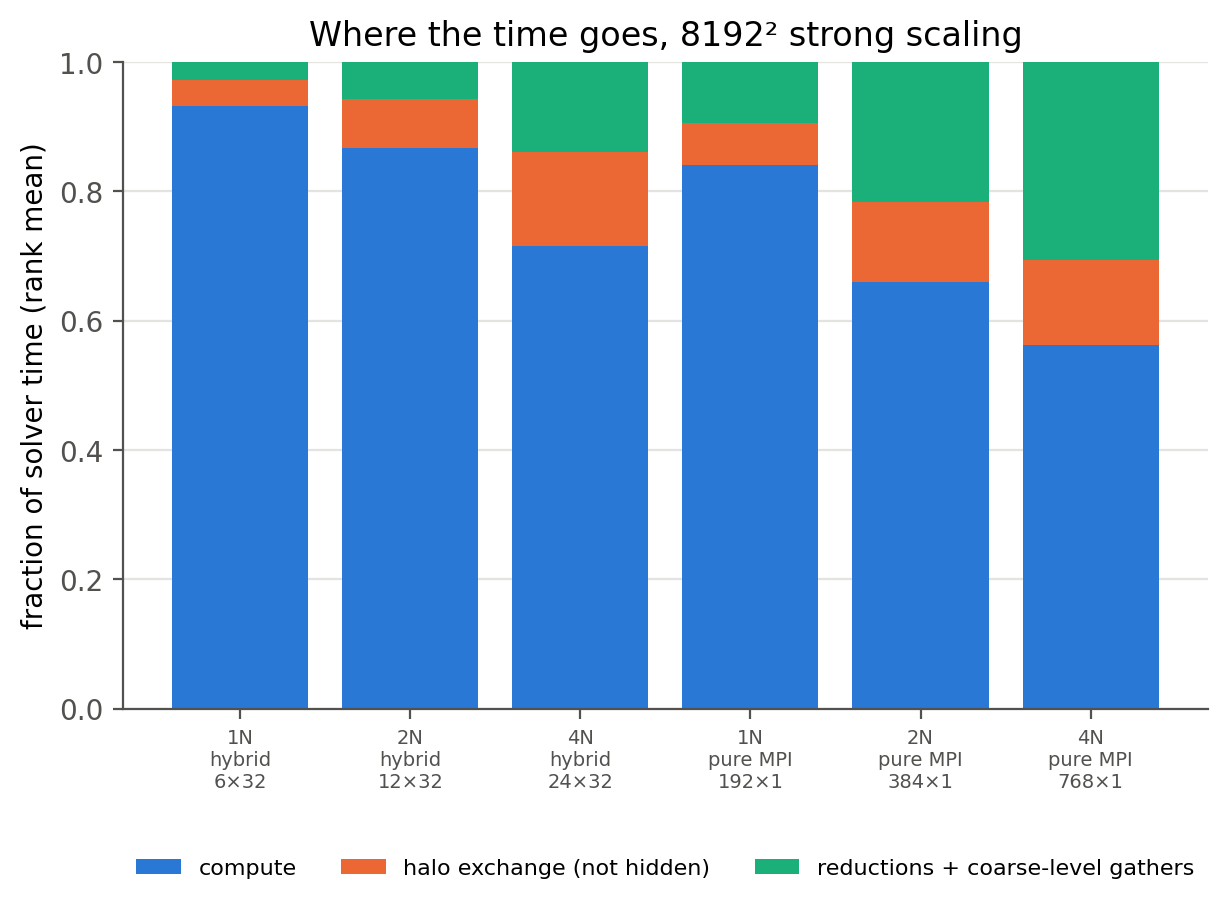
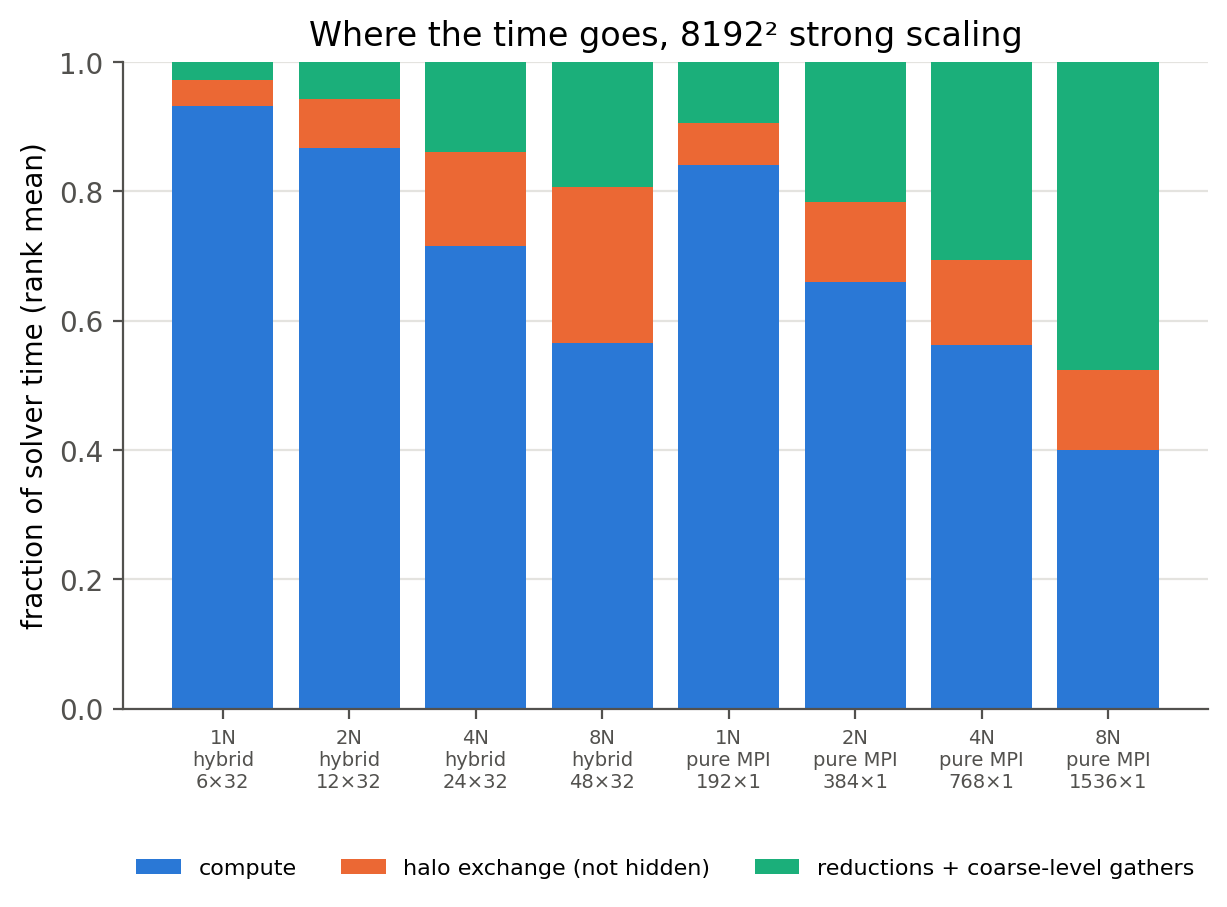
Update the new MPI results

diff --git a/docs/RESULTS.md b/docs/RESULTS.md
@@ -364,31 +364,32 @@ Coloured sweeps post non-blocking, corner-free halo messages for the previous co
 
 The gain needs blocks large enough for the interior update to cover the message time (512² cells per rank at 4096², 128² at 1024²). Kept: it never measurably costs time and results stay byte-identical.
 
-### Scaling on up to 4 nodes (T46)
+### Scaling on up to 8 nodes (T46)
 
-nibi CPU nodes: 2 × Intel Xeon 6972P, 192 cores and 6 NUMA domains (SNC3) per node, whole nodes (`--exclusive`), GCC 12.3, Open MPI 4.1.5. Cavity Re1000, QUICK/4, `gs_multicolour` + `mg`, fixed iterations (4096² × 100, 8192² × 50, weak 2048² per node × 200), `write_fields = False`, halo overlap on. Two layouts: **hybrid** (one rank per NUMA domain, 32 OpenMP threads each, `OMP_PLACES=cores OMP_PROC_BIND=close`) and **pure MPI** (one rank per core). Median of 3; repeats within a job agree to a few percent. Jobs 27660679–27660681 at c6c50f1 (`bench/slurm/mpi_scaling.sbatch`, figures from `postprocess/plot_mpi.py`). The 8-node job is still queued.
+nibi CPU nodes: 2 × Intel Xeon 6972P, 192 cores and 6 NUMA domains (SNC3) per node, whole nodes (`--exclusive`), GCC 12.3, Open MPI 4.1.5. Cavity Re1000, QUICK/4, `gs_multicolour` + `mg`, fixed iterations (4096² × 100, 8192² × 50, weak 2048² per node × 200), `write_fields = False`, halo overlap on. Two layouts: **hybrid** (one rank per NUMA domain, 32 OpenMP threads each, `OMP_PLACES=cores OMP_PROC_BIND=close`) and **pure MPI** (one rank per core). Median of 3; repeats within a job agree to a few percent. Jobs 27660679–27660682 at c6c50f1 (`bench/slurm/mpi_scaling.sbatch`, figures from `postprocess/plot_mpi.py`).
 
 **Strong scaling** (solver seconds):
 
-| grid | layout | 1 node | 2 nodes | 4 nodes | speedup at 4 |
+| grid | layout | 1 node | 2 nodes | 4 nodes | 8 nodes | speedup at 4 / 8 |
+|---|---|---|---|---|---|---|
+| 4096² | hybrid (6 × 32) | 5.82 | 3.05 | 1.29 | 1.05 | **4.5× / 5.6×** |
+| 4096² | pure MPI (192 × 1) | 6.31 | 3.18 | 1.53 | 1.80 | 4.1× / 3.5× |
+| 8192² | hybrid | 18.35 | 8.62 | 3.43 | 1.99 | **5.3× / 9.2×** |
+| 8192² | pure MPI | 18.43 | 9.59 | 3.66 | 2.43 | 5.0× / 7.6× |
+
+**Weak scaling** (2048² cells per node: 2048², 4096 × 2048, 4096², 8192 × 4096):
+
+| layout | 1 node | 2 nodes | 4 nodes | 8 nodes | efficiency at 2 / 4 / 8 |
 |---|---|---|---|---|---|
-| 4096² | hybrid (6 × 32) | 5.82 | 3.05 | 1.29 | **4.5×** |
-| 4096² | pure MPI (192 × 1) | 6.31 | 3.18 | 1.53 | 4.1× |
-| 8192² | hybrid | 18.35 | 8.62 | 3.43 | **5.3×** |
-| 8192² | pure MPI | 18.43 | 9.59 | 3.66 | 5.0× |
-
-**Weak scaling** (2048² cells per node: 2048², 4096 × 2048, 4096²):
-
-| layout | 1 node | 2 nodes | 4 nodes | efficiency at 2 / 4 |
-|---|---|---|---|---|
-| hybrid | 1.98 s | 2.17 s | 2.41 s | **91 % / 82 %** |
-| pure MPI | 1.83 s | 2.23 s | 2.99 s | 82 % / 61 % |
+| hybrid | 1.98 s | 2.17 s | 2.41 s | 2.80 s | **91 % / 82 % / 71 %** |
+| pure MPI | 1.83 s | 2.23 s | 2.99 s | 4.29 s | 82 % / 61 % / 43 % |
 
 ![MPI strong scaling](figures/performance/mpi/mpi_strong.png)
 ![MPI weak scaling](figures/performance/mpi/mpi_weak.png)
 
-- **Superlinear strong scaling comes from per-node problem size, not from the code beating ideal.** The cost per cell per iteration on a node falls as its share of the grid shrinks: 5.5 ns at 67M cells per node (8192², 1 node), 3.5 ns at 17M (4096², 1 node). 8192² on 4 nodes has the same 17M cells per node and costs 4.1 ns; the 0.6 ns difference is communication. The same effect as the cache-resident grids in T36.
-- **Hybrid wins, and the margin grows with node count.** Pure MPI's collectives (row-sum reductions and the multigrid coarse-level gather, which every rank receives in full) grow with the rank count: at 4 nodes they take 31 % of the 8192² time with 768 ranks against 14 % with 24 hybrid ranks, and 46 % of the pure-MPI weak-scaling time.
+- **Superlinear strong scaling comes from per-node problem size, not from the code beating ideal.** The cost per cell per iteration on a node falls as its share of the grid shrinks: 5.5 ns at 67M cells per node (8192², 1 node), 3.5 ns at 17M (4096², 1 node). 8192² on 4 nodes has the same 17M cells per node and costs 4.1 ns; the 0.6 ns difference is communication. On 8 nodes (8.4M cells per node) it costs 4.7 ns against 3.6 ns for 4096² on 2 nodes at the same size, so communication has grown to 1.1 ns. The same effect as the cache-resident grids in T36.
+- **Hybrid wins, and the margin grows with node count.** Pure MPI's collectives (row-sum reductions and the multigrid coarse-level gather, which every rank receives in full) grow with the rank count: at 4 nodes they take 31 % of the 8192² time with 768 ranks against 14 % with 24 hybrid ranks, and at 8 nodes 48 % with 1536 ranks against 19 % with 48. They are 56 % of the 8-node pure-MPI weak-scaling time.
+- **Pure MPI stops scaling at 4096² beyond 4 nodes**: 1.53 s on 4 nodes, 1.80 s on 8. With 1536 ranks the collectives take 1.33 s of the 1.80 s (74 %); hybrid with 48 ranks spends 0.26 s and is 1.7× faster. Hybrid 4096² is also near its limit on 8 nodes (5.6×): each rank holds 350K cells and unhidden halo time is 0.43 s of 1.05 s.
 - **Run-to-run variation between jobs is larger than within a job.** Pure-MPI cases whose decomposition did not change between the two scaling jobs moved by up to 11 % (weak, 1 node: 1.64 → 1.83 s), presumably from different node allocations. Differences under about 10 % between separate jobs are not significant.
 
 ### Balanced multigrid split: diagnosing halo wait (T46)
@@ -410,5 +411,5 @@ Each rank times its halo exchanges (blocking exchange, post and wait: with overl
 
 ![Time split at 8192²](figures/performance/mpi/mpi_comm.png)
 
-- Hybrid 8192²: compute 93 % on one node (halo 4 %, collectives 3 %), 72 % on four (halo 15 %, collectives 14 %). That is real communication growing with node count now, not idle time.
-- **Ping-pong between two nodes** (`bench/mpi_pingpong.cpp`): 2.4 µs latency, 24 GB/s bandwidth. A 2-cell-deep halo row message at 8192² on 4 nodes (32 KB) should cost about 4 µs, yet the halo time is about 10 ms per outer iteration. Each iteration makes many small exchanges (one per colour per sweep and per multigrid level), so latency and synchronisation dominate, not bandwidth. Exchanges per iteration are not counted yet, so the per-iteration α–β prediction is still open.
+- Hybrid 8192²: compute 93 % on one node (halo 4 %, collectives 3 %), 72 % on four (halo 15 %, collectives 14 %), 56 % on eight (halo 24 %, collectives 19 %). That is real communication growing with node count now, not idle time. Pure MPI on 8 nodes is down to 40 % compute.
+- **Ping-pong between two nodes** (`bench/mpi_pingpong.cpp`): 2.4 µs latency, 24 GB/s bandwidth, the same in the 2-, 4- and 8-node jobs. A 2-cell-deep halo row message at 8192² on 4 nodes (32 KB) should cost about 4 µs, yet the halo time is about 10 ms per outer iteration. Each iteration makes many small exchanges (one per colour per sweep and per multigrid level), so latency and synchronisation dominate, not bandwidth. Exchanges per iteration are not counted yet, so the per-iteration α–β prediction is still open.
